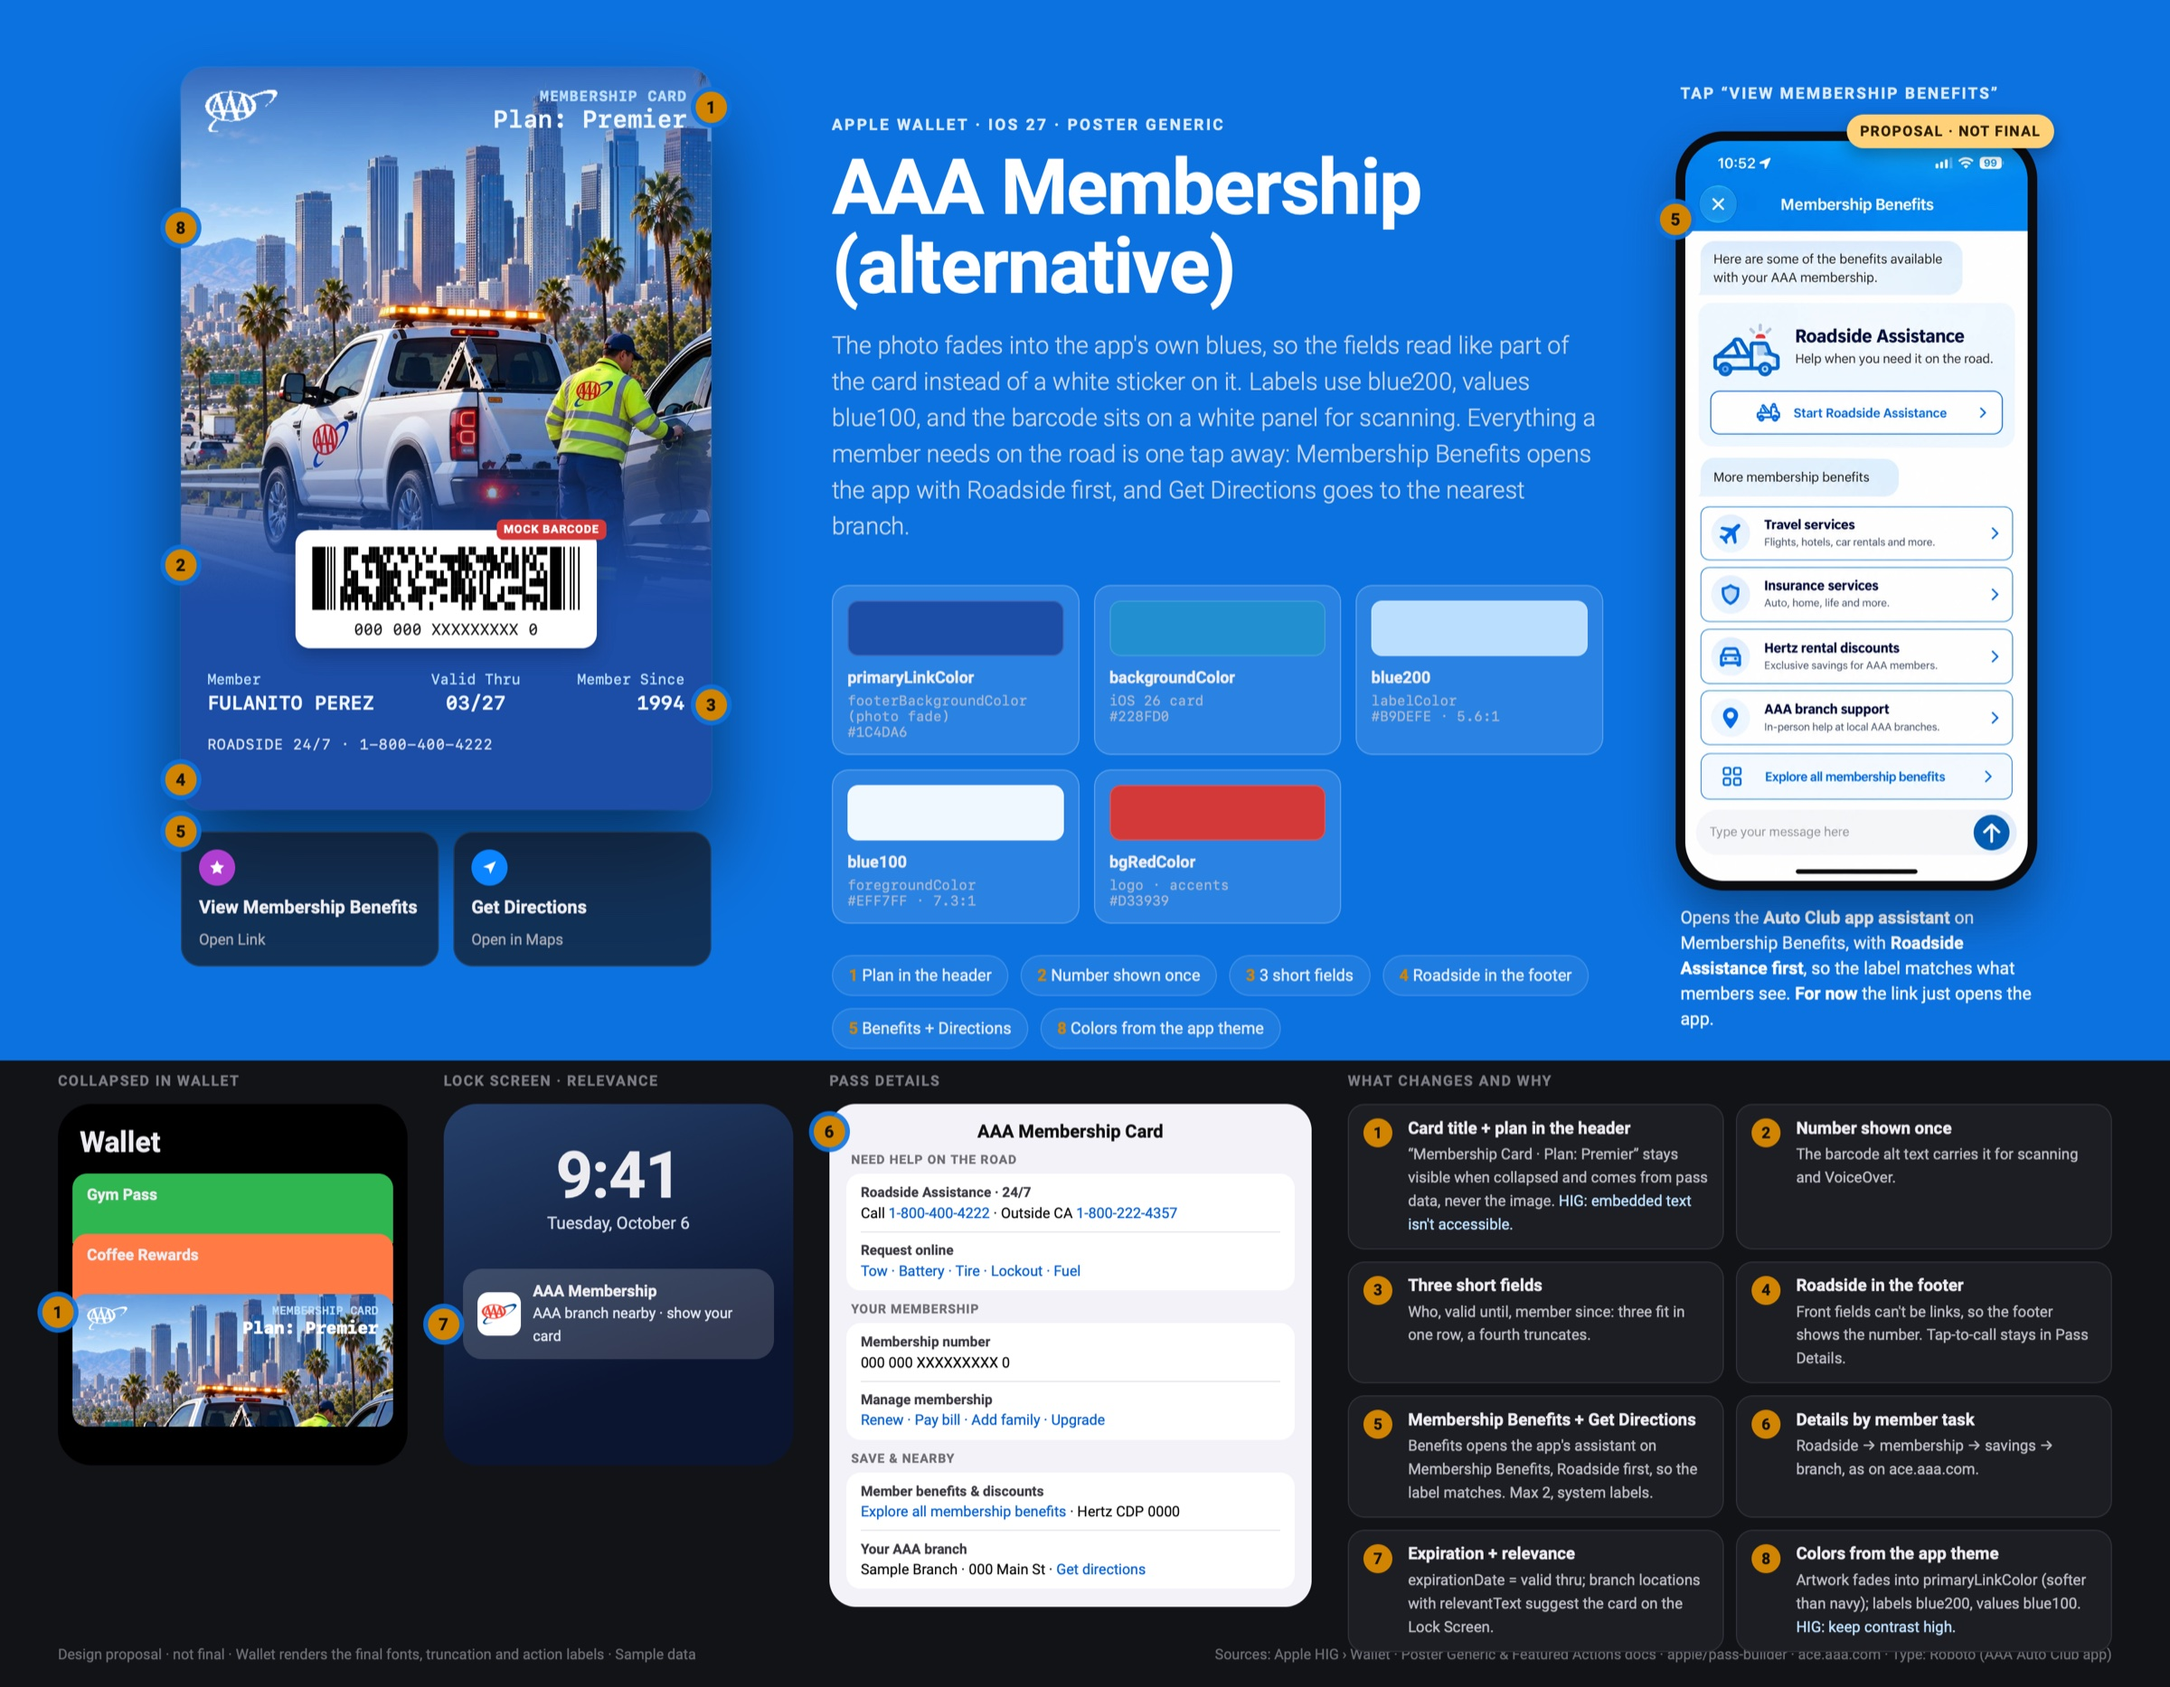
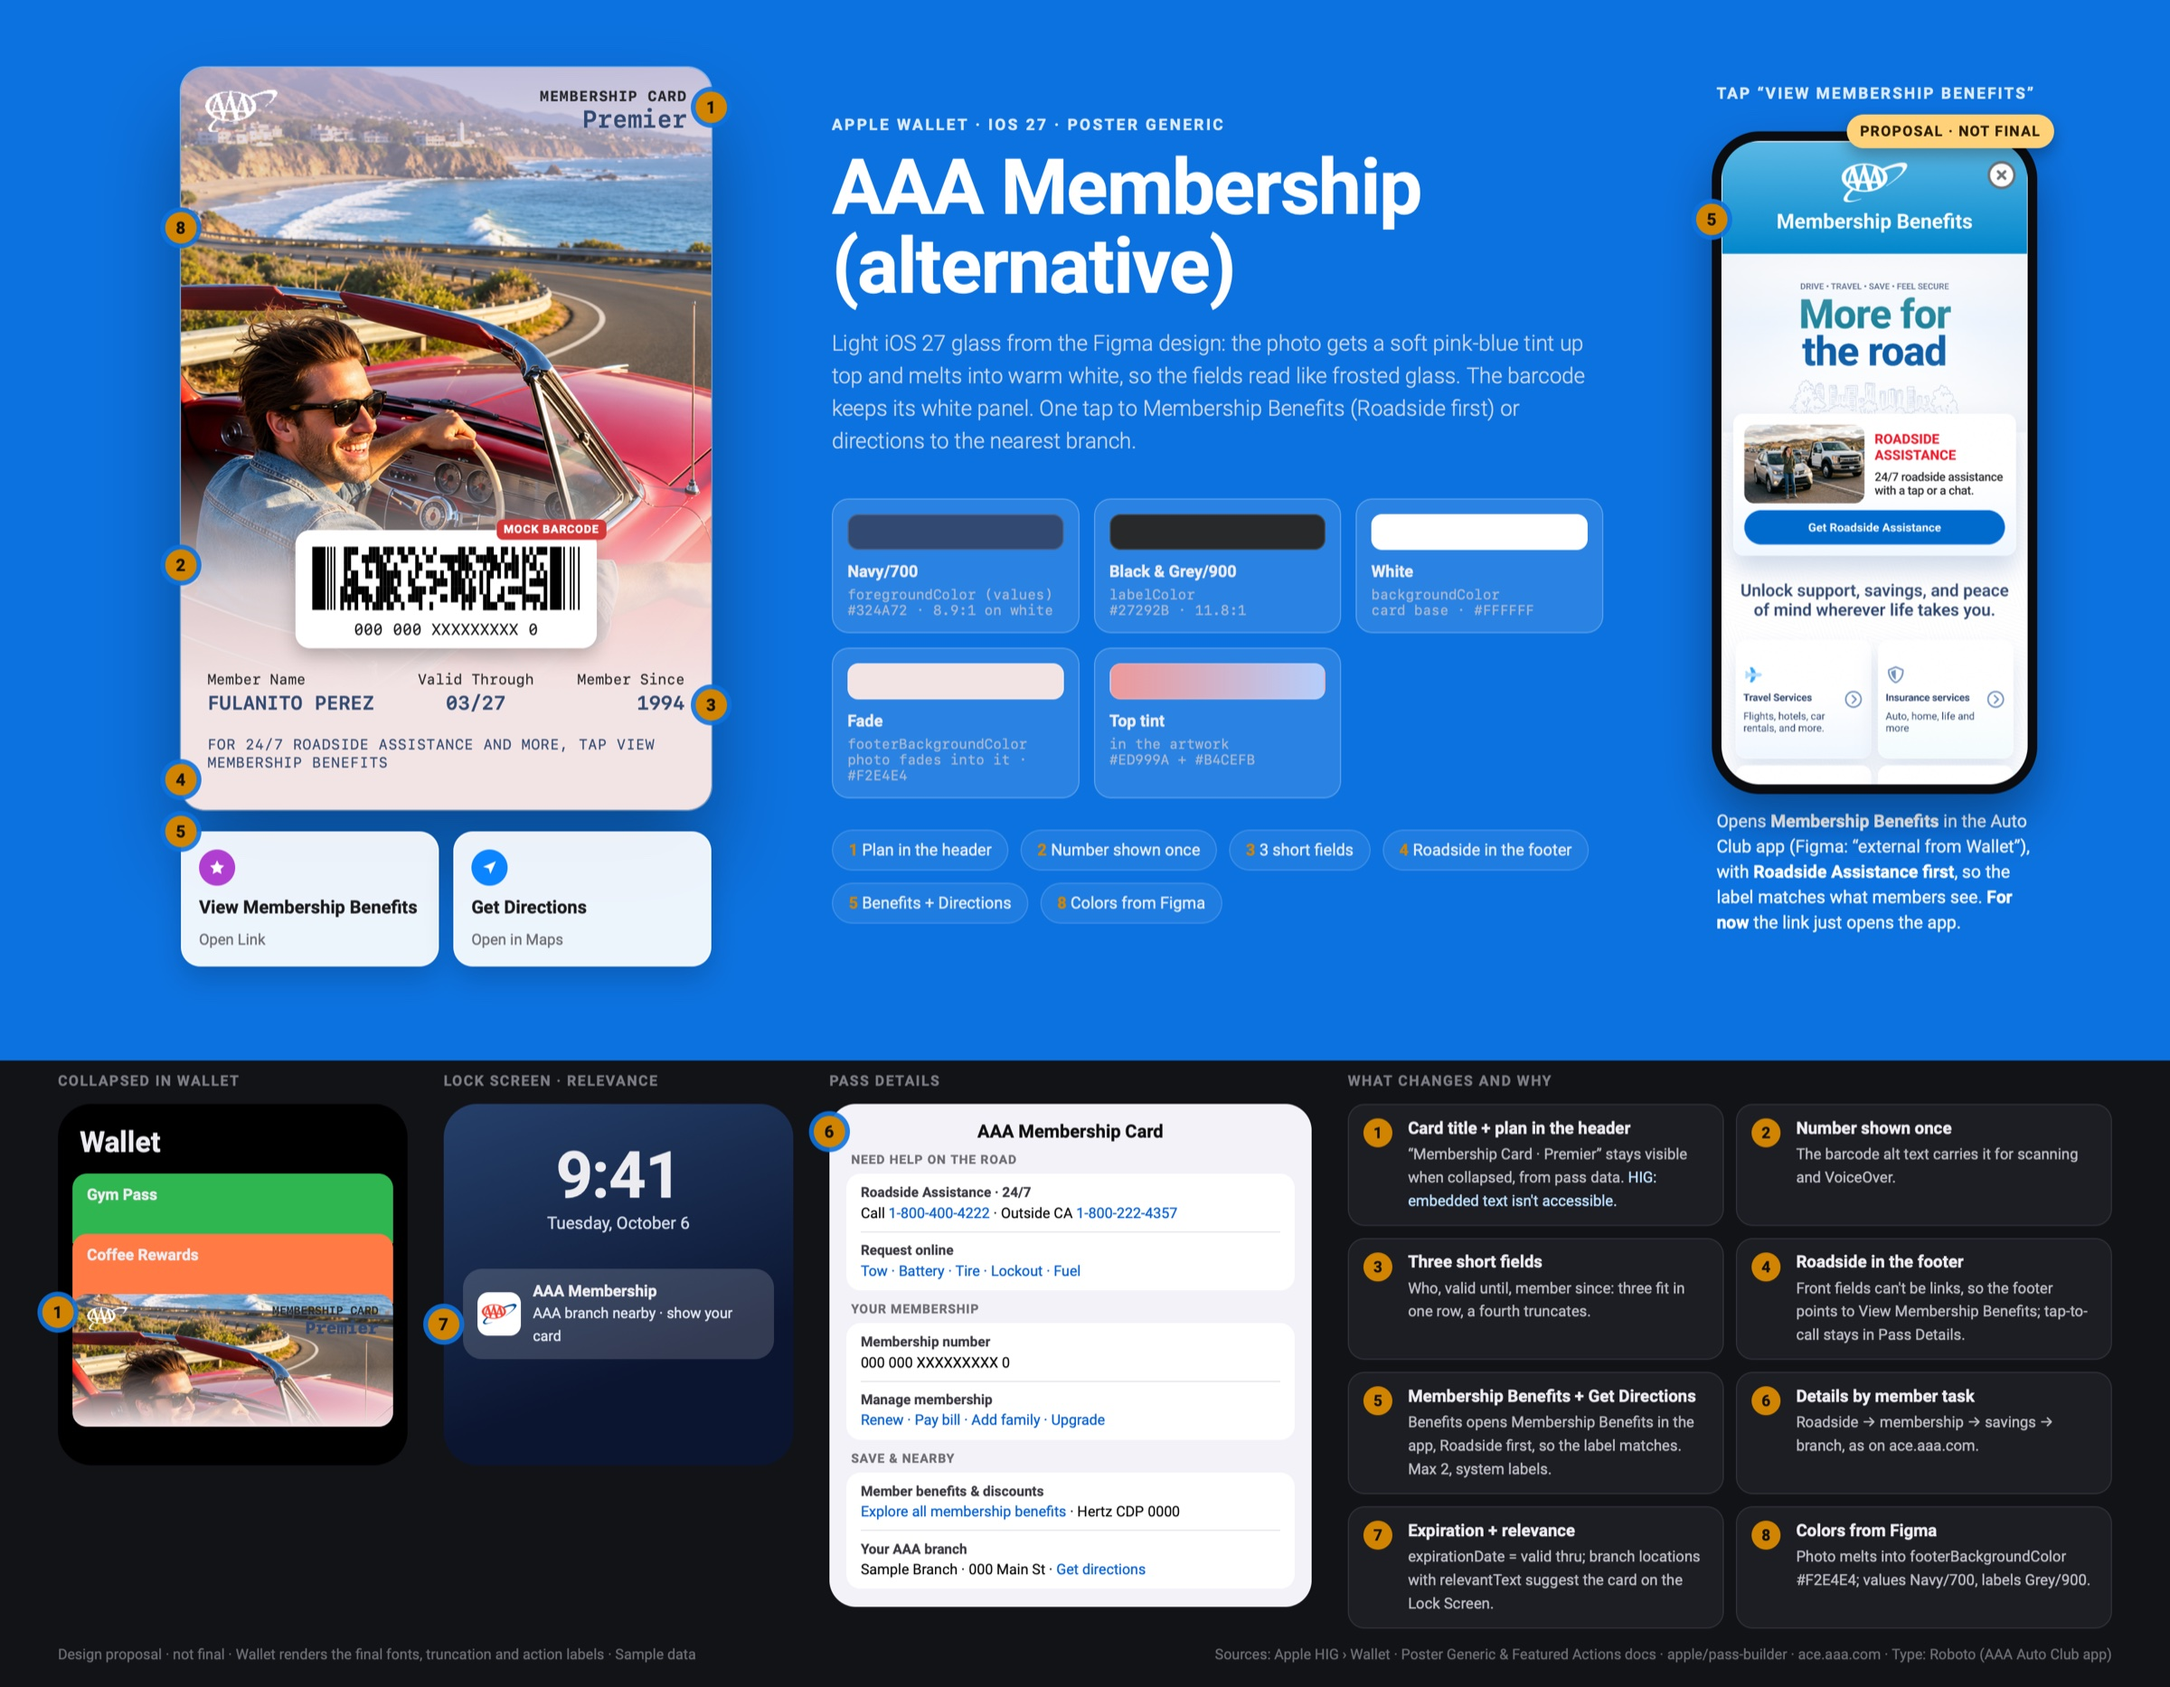
Proposal images: new Figma light glass design + Figma Membership Benefits screen

diff --git a/index.html b/index.html
@@ -351,18 +351,18 @@ button,select{font:inherit;color:inherit}
     <section class="proposal" aria-labelledby="proposalTitle">
       <div class="proposal-h">
         <div><h2 id="proposalTitle">Design proposals <span class="credit">(the image canvas below and strings made by Claude, i just did the pass design and the web)</span></h2>
-        <p>A different take on both cards, now in the light iOS 27 glass look from the Figma design (iOS 27 WALLET page): Figma’s photos and top tints, the photo melts into the footer color set in the pass (#F2E4E4, like Pass Designer’s gradient), values in Navy/700 and labels in Grey/900. Everything here is stuff Apple Wallet actually supports. Grab one with Download template and drag it onto this page (or open it in Pass Designer), or just hit Open in viewer. Heads up: the images below still show the earlier blue version; the templates are the latest. The Membership and Insurance cards up top stay as they are.</p></div>
+        <p>A different take on both cards, now in the light iOS 27 glass look from the Figma design (iOS 27 WALLET page): Figma’s photos and top tints, the photo melts into the footer color set in the pass (#F2E4E4, like Pass Designer’s gradient), values in Navy/700 and labels in Grey/900. Everything here is stuff Apple Wallet actually supports. Grab one with Download template and drag it onto this page (or open it in Pass Designer), or just hit Open in viewer. The Membership and Insurance cards up top stay as they are.</p></div>
       </div>
       <div class="proposal-grid">
         <figure>
           <figcaption><b>AAA Membership (alternative)</b><span class="fig-actions"><button type="button" data-tpl-dl="AAA Membership Card (Alternative).pkpasstemplate">Download template</button><button type="button" data-tpl-open="AAA Membership Card (Alternative).pkpasstemplate">Open in viewer</button><a href="proposal/aaa-membership-alternative@full.png" target="_blank" rel="noopener">Full size ↗</a></span></figcaption>
           <a href="proposal/aaa-membership-alternative@full.png" target="_blank" rel="noopener" class="proposal-img"><img src="proposal/aaa-membership-alternative.jpg" loading="lazy" width="2400" height="1866"
-            alt="AAA Membership (alternative): the membership card in the app's blues, with the roadside photo fading into primary blue, “Membership Card · Plan: Premier” in the header, a barcode, member, valid-thru and member-since fields, a roadside footer, View Membership Benefits and Get Directions actions, the color palette, and the Auto Club app's Membership Benefits screen marked proposal, not final. Below: collapsed card, Lock Screen suggestion, Pass Details and eight numbered notes."></a>
+            alt="AAA Membership (alternative) in the light Figma glass design: the coastal convertible photo with a soft pink-blue tint melting into warm white, Membership Card · Premier header, barcode, member name, valid-through and member-since fields, the Membership Benefits footer, white View Membership Benefits and Get Directions actions, the Figma color palette, and the Membership Benefits screen marked proposal, not final. Below: collapsed card, Lock Screen suggestion, Pass Details and eight numbered notes."></a>
         </figure>
         <figure>
           <figcaption><b>AAA Insurance (alternative)</b><span class="fig-actions"><button type="button" data-tpl-dl="AAA Insurance Card (Alternative).pkpasstemplate">Download template</button><button type="button" data-tpl-open="AAA Insurance Card (Alternative).pkpasstemplate">Open in viewer</button><a href="proposal/aaa-insurance-alternative@full.png" target="_blank" rel="noopener">Full size ↗</a></span></figcaption>
           <a href="proposal/aaa-insurance-alternative@full.png" target="_blank" rel="noopener" class="proposal-img"><img src="proposal/aaa-insurance-alternative.jpg" loading="lazy" width="2400" height="1866"
-            alt="AAA Insurance (alternative): the insurance card with the coastal sunset photo fading into primary blue, “CA Evidence of Liability · Auto Insurance Card” in the header, name ensured, policy number and effective-period fields, the company in the footer, View Membership Benefits and Get Directions actions, the color palette, and the Auto Club app's Membership Benefits screen marked proposal, not final. Below: collapsed card, Lock Screen suggestion, Pass Details and eight numbered notes."></a>
+            alt="AAA Insurance (alternative) in the light Figma glass design: the LA sunset photo with palms melting into warm white, CA Evidence of Liability · Auto Insurance Card header, name ensured, policy number and effective fields, the company in the footer, white View Membership Benefits and Get Directions actions, the Figma color palette, and the Membership Benefits screen marked proposal, not final. Below: collapsed card, Lock Screen suggestion, Pass Details and eight numbered notes."></a>
         </figure>
       </div>
     </section>
